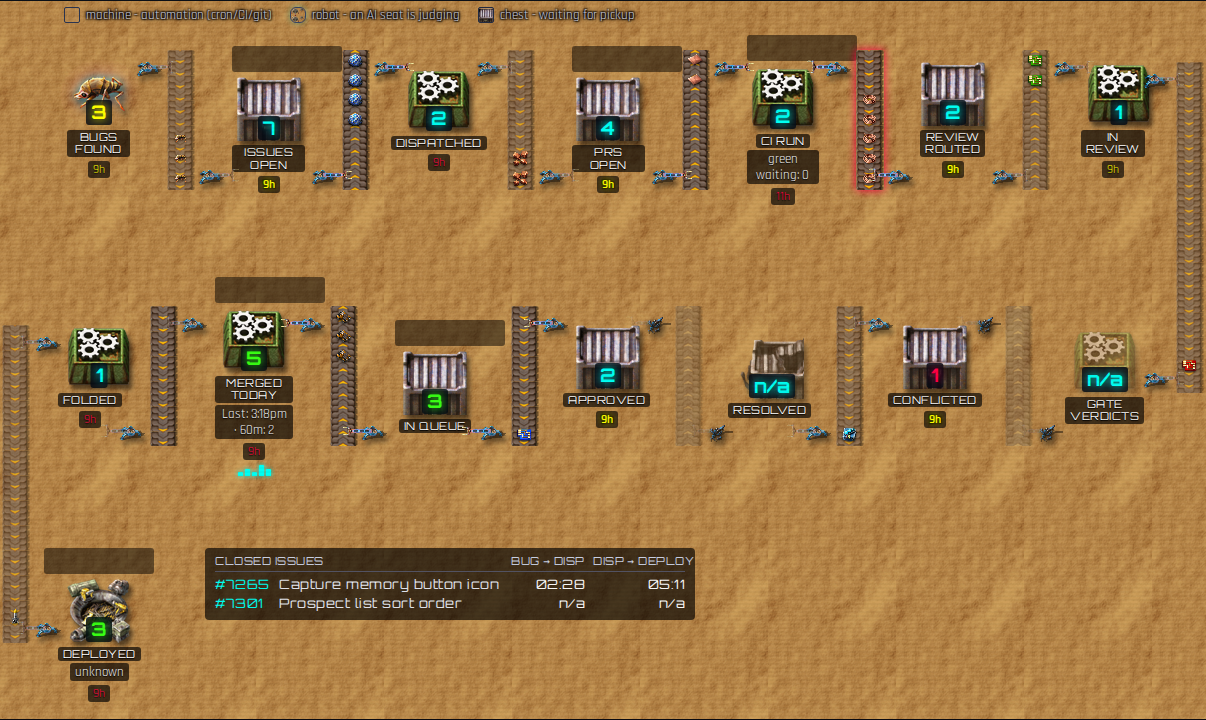
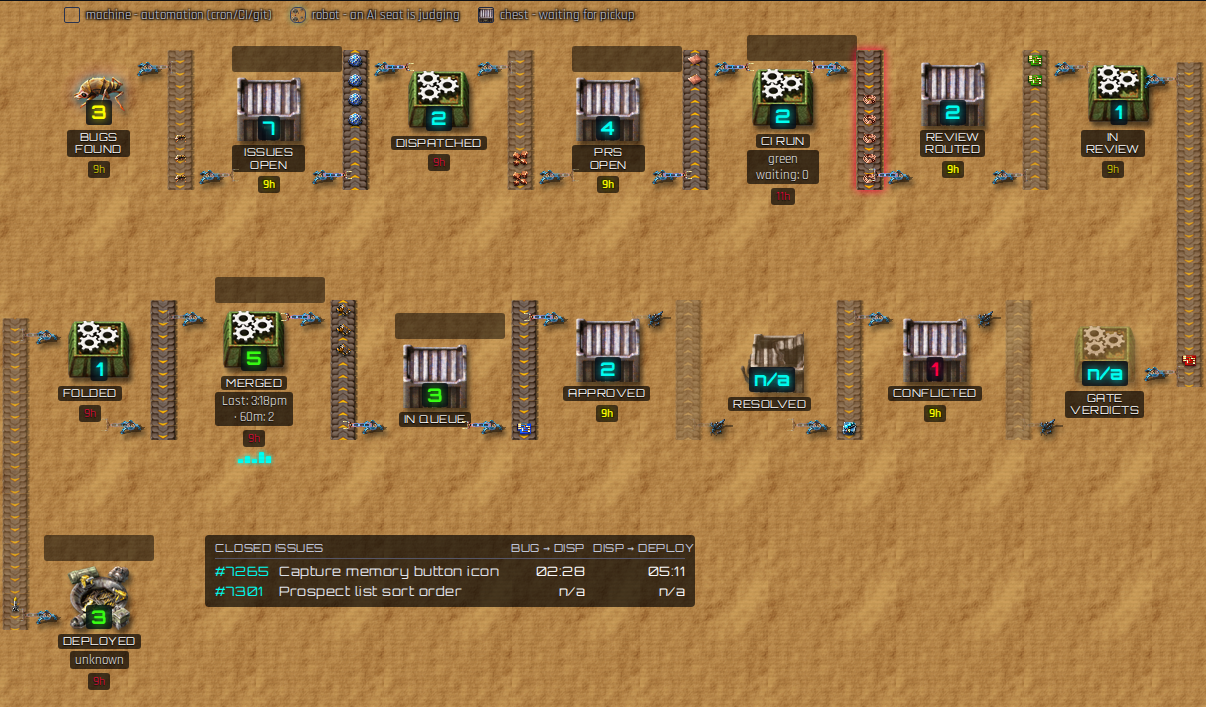
fix(monitor): caption MERGED TODAY -> MERGED (Ben)
Claude-Session: https://claude.ai/code/session_015a21LH9eqkn4oZydkWAQ3i

diff --git a/queue_router.py b/queue_router.py
@@ -9816,7 +9816,7 @@ function shipFlowHtml(d) {
             // queue, and green-waiting's own count/age live as ci run's sub-line above.
             shipStage(d.approved ?? null, 'approved', '', '', null, HELP.approved, '', 'approved', [], null, null, null, null, d.approved_last_at) + shipArrow('approved', '✅', arrowByKey['green-inline'], 'Approved PRs not yet merged', null, wFor('green-inline'), isB('green-inline'), null, null, 'left', true) +
             shipStage(queueNum, 'in line', queueCls, queueSub, null, queueHelp, queueOld.cls, 'in-line', d.queue_prs, 'in queue', shipHistorySpark(sp.queue, 'queue'), null, null, null) + shipArrow('in line', '⚡', arrowByKey['inline-merged'], 'Merge queue entries', d.queue_depth, wFor('inline-merged'), isB('inline-merged'), null, null, 'left', true) +
-            shipStage(d.merged_today, 'merged today', 'ok', mergedSub, d.merged_spark, HELP.merged + shipOldestWords('merged today', 'minutes since the last merge'), mergedStage, 'merged-today', d.merged_today_prs, null, shipHistorySpark(sp.merged, 'merged'), null, null, d.last_merge_at) + shipArrow('merged today', '⚡', arrowByKey['merged-deploy'], 'Production deploy workflows in flight, or merge awaiting deploy', shipDeployCount(d), wFor('merged-deploy'), isB('merged-deploy'), null, null, 'left', true) +
+            shipStage(d.merged_today, 'merged today', 'ok', mergedSub, d.merged_spark, HELP.merged + shipOldestWords('merged today', 'minutes since the last merge'), mergedStage, 'merged-today', d.merged_today_prs, 'merged', shipHistorySpark(sp.merged, 'merged'), null, null, d.last_merge_at) + shipArrow('merged today', '⚡', arrowByKey['merged-deploy'], 'Production deploy workflows in flight, or merge awaiting deploy', shipDeployCount(d), wFor('merged-deploy'), isB('merged-deploy'), null, null, 'left', true) +
             // 'folded' is row 2's 7th and its own end - the turn down to
             // 'deployed' (row 3's lone stage for now; Ben expects more steps
             // to land here) is the second tall row-end belt, carrying item
